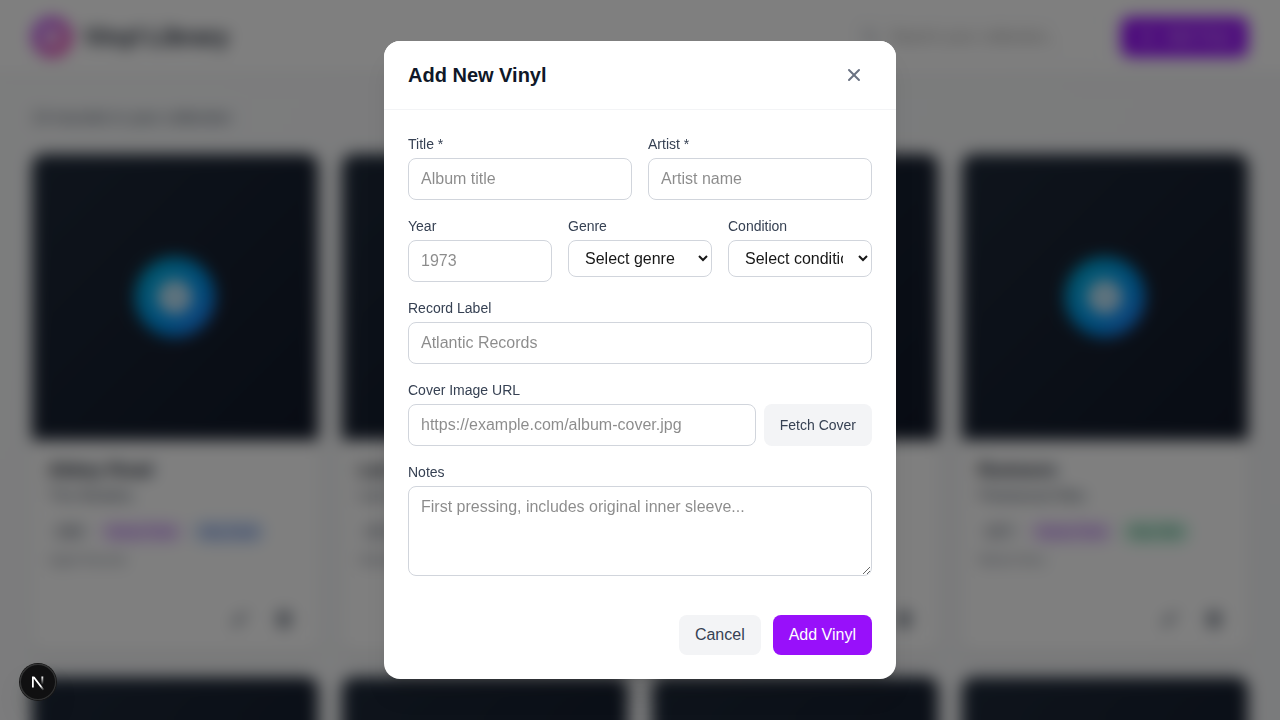
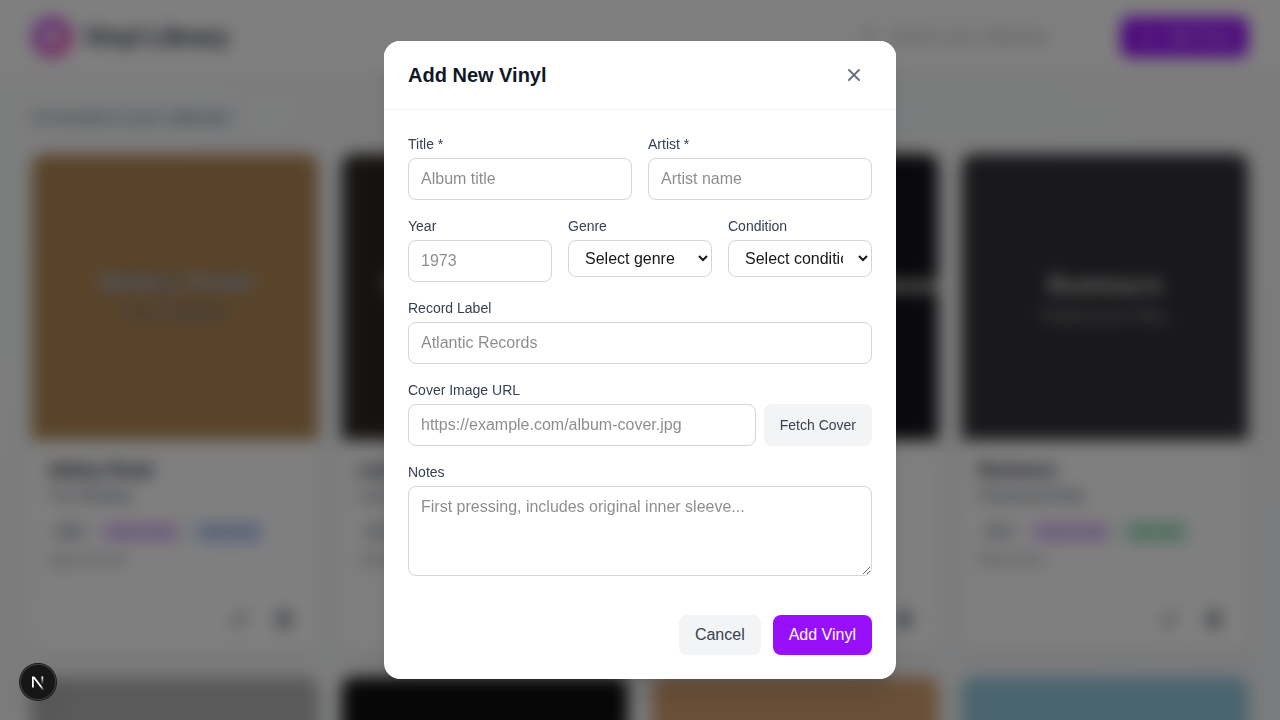
Update screenshots with album art and add cover images

diff --git a/public/covers/generate_covers.py b/public/covers/generate_covers.py
@@ -1,0 +1,56 @@
+from PIL import Image, ImageDraw, ImageFont
+import os
+
+albums = [
+    ("Abbey Road", "The Beatles", (179, 136, 84)),
+    ("Led Zeppelin IV", "Led Zeppelin", (45, 40, 35)),
+    ("Dark Side of the Moon", "Pink Floyd", (20, 20, 25)),
+    ("Rumours", "Fleetwood Mac", (50, 48, 52)),
+    ("Who's Next", "The Who", (180, 180, 180)),
+    ("Back in Black", "AC/DC", (15, 15, 15)),
+    ("Hotel California", "Eagles", (210, 160, 110)),
+    ("OK Computer", "Radiohead", (150, 200, 220)),
+    ("Nevermind", "Nirvana", (100, 180, 220)),
+    ("The Bends", "Radiohead", (200, 100, 100)),
+    ("Disintegration", "The Cure", (180, 160, 180)),
+    ("Automatic for the People", "R.E.M.", (80, 100, 120)),
+    ("Siamese Dream", "The Smashing Pumpkins", (240, 180, 120)),
+    ("Morning Glory", "Oasis", (220, 200, 150)),
+]
+
+for i, (title, artist, color) in enumerate(albums, 1):
+    # Create a 500x500 image with the album's color
+    img = Image.new('RGB', (500, 500), color)
+    draw = ImageDraw.Draw(img)
+    
+    # Add text in center
+    try:
+        font_title = ImageFont.truetype("/usr/share/fonts/truetype/dejavu/DejaVuSans-Bold.ttf", 40)
+        font_artist = ImageFont.truetype("/usr/share/fonts/truetype/dejavu/DejaVuSans.ttf", 30)
+    except:
+        font_title = ImageFont.load_default()
+        font_artist = ImageFont.load_default()
+    
+    # Calculate text position for centering
+    # Draw title
+    bbox = draw.textbbox((0, 0), title, font=font_title)
+    text_width = bbox[2] - bbox[0]
+    text_height = bbox[3] - bbox[1]
+    x = (500 - text_width) / 2
+    y = (500 - text_height) / 2 - 30
+    
+    # Draw white text with black outline for visibility
+    draw.text((x, y), title, fill=(255, 255, 255), font=font_title, stroke_width=2, stroke_fill=(0, 0, 0))
+    
+    # Draw artist
+    bbox = draw.textbbox((0, 0), artist, font=font_artist)
+    text_width = bbox[2] - bbox[0]
+    x = (500 - text_width) / 2
+    y += 60
+    draw.text((x, y), artist, fill=(200, 200, 200), font=font_artist, stroke_width=1, stroke_fill=(0, 0, 0))
+    
+    # Save
+    img.save(f'cover-{i}.jpg', 'JPEG', quality=90)
+    print(f"Created cover-{i}.jpg for {title}")
+
+print("Done!")
